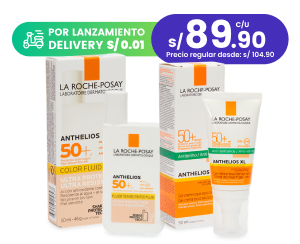
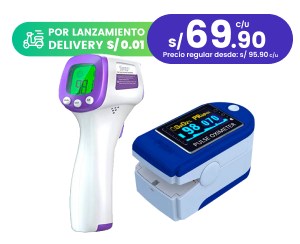
Resolve release into master (#228)
* fix(home): update banner for niubiz issues (#186)

* fix(home): revert to original beta message (#189)

* fix(home): update banners image/information (#194)

* fix(home) update beta message information (#196)

* [FR 905] display message error in address form && update message in home page  (#200)

* feat(address form): display error

* docs: update message 20120113

* docs: update message 201201132

* remove banner link in home page (#203)

* [FR-976][Release] Actualizar banner (#214)

* feat(banner): update products)

* fix: add Nuestros Recomendados title

* [Release] cambiar logo (#208)

* feat: update logo auna

* feat: scale main logo to xs-small-screnn

* feat: update modal initial and footer home page (#218)

* feat(banner): update images and text (#226)

diff --git a/src/views/Home/Page.tsx b/src/views/Home/Page.tsx
@@ -22,20 +22,14 @@ const Page: React.FC<IPageProps> = ({
 }) => {
   return (
     <div className="container">
-      <a href="./product/fotoprotector-facial-anthelios-shaka-color-spf50-50ml/4524/">
+      <a href="./product/oxmetro-de-pulso/3889/">
         <div className="home-page__top-banner">
           <div className="home-page__top-banner__text">
-            <h2>Protectores Solares<br />La Roche Posay</h2>
-            <h3>
-              <a href="./product/fotoprotector-facial-anthelios-shaka-color-spf50-50ml/4524/">
-                Shaka Color
-            </a>&nbsp;/&nbsp;
-            <a href="./product/protect-solar-anthelios-xl-color-spf50-50-ml/4272/">XL Color 50 ml</a>
-            </h3>
+            <h2>¡Último día!</h2>
+            <h3><strong>Oxímetro de Pulso o Termómetro Digital Infrarrojo</strong></h3>
             <p>
-              *Promoción válida hasta el 21/01/2021 o hasta agotar stock. Max. 3 unidades por producto.<br />
-            Aplica max. 2 promociones por usuario. No acumulable con otras promociones. Aplican más T&C.
-          </p>
+              *Válido hasta el 21/01/21 o hasta agotar stock. Máx. 3 unids por producto. Aplica máx. 2 promociones por usuario. Delivery a S/0.01 hasta el 31/01/21. T&C: <a href="http://bit.ly/TyC_Farmauna" target="_blank">http://bit.ly/TyC_Farmauna</a>
+            </p>
           </div>
         </div>
       </a>

diff --git a/src/views/Home/scss/index.scss b/src/views/Home/scss/index.scss
@@ -56,12 +56,12 @@
     &__text {
       position: absolute;
       right: 2rem;
-      top: 8rem;
+      top: 6rem;
       max-width: 38rem;
 
       @media (max-width: $small-screen) {
         border-radius: 1rem 1rem 0 0;
-        margin-top: 9.375rem;
+        margin-top: 12.375rem;
         right: 0;
         bottom: 0;
         left: 0;
@@ -98,8 +98,9 @@
         }
       }
       h3 {
-        font-size: 1.08rem;
+        font-size: 2.08rem;
         margin-bottom: 1.25rem;
+        line-height: 2.7rem;
         @media (max-width: $small-screen) {
           font-size: 1rem;
           line-height: 1.25rem;
